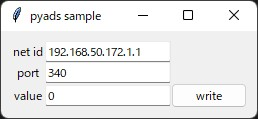
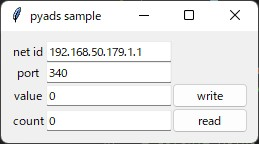
update: readを追加

diff --git a/Python/pyads-test.py b/Python/pyads-test.py
@@ -4,6 +4,7 @@
 from cgitb import text
 from tkinter import *
 from tkinter import ttk
+import tkinter
 from turtle import width
 import pyads
 
@@ -18,15 +19,28 @@ def write_value():
     ads_client.write_by_name("Untitled1_Obj1 (Module1).Inputs.Value",value)
     ads_client.close()
 
+def read_value():
+    print("read value")
+    net_id = net_id_text.get()
+    port = int(port_text.get())
+    ads_client = pyads.Connection(net_id, port)
+    ads_client.open()
+    value = ads_client.read_by_name("Untitled1_Obj1 (Module1).Outputs.Value")
+    ads_client.close()
+    count_text.delete(0, tkinter.END)
+    count_text.insert(0, value)
+
+    
 root = Tk()
 root.title("pyads sample")
 frm = ttk.Frame(root,padding=10)
 frm.grid()
 
 # default value
-ads_net_id_default  = StringVar(frm, value="192.168.50.172.1.1")
+ads_net_id_default  = StringVar(frm, value="192.168.50.179.1.1")
 port_number_default = StringVar(frm, value="340")
-value_default       = StringVar(frm, value="0")
+write_value_default = StringVar(frm, value="0")
+read_value_default  = StringVar(frm, value="0")
 
 # place widgets
 ttk.Label(frm, text="net id").grid(column=0, row=0)
@@ -37,8 +51,12 @@ port_text = ttk.Entry(frm, textvariable=port_number_default, width=20)
 port_text.grid(column=1, row=1)
 
 ttk.Label(frm, text="value").grid(column=0, row=2)
-value_text = ttk.Entry(frm, textvariable=value_default,width=20)
+value_text = ttk.Entry(frm, textvariable=write_value_default,width=20)
 value_text.grid(column=1, row=2)
 ttk.Button(frm, text="write", command=write_value).grid(column=2, row=2)
 
+ttk.Label(frm, text="count").grid(column=0, row=3)
+count_text = ttk.Entry(frm, textvariable=read_value_default, width=20)
+count_text.grid(column=1, row=3)
+ttk.Button(frm, text="read", command=read_value).grid(column=2, row=3)
 root.mainloop()
